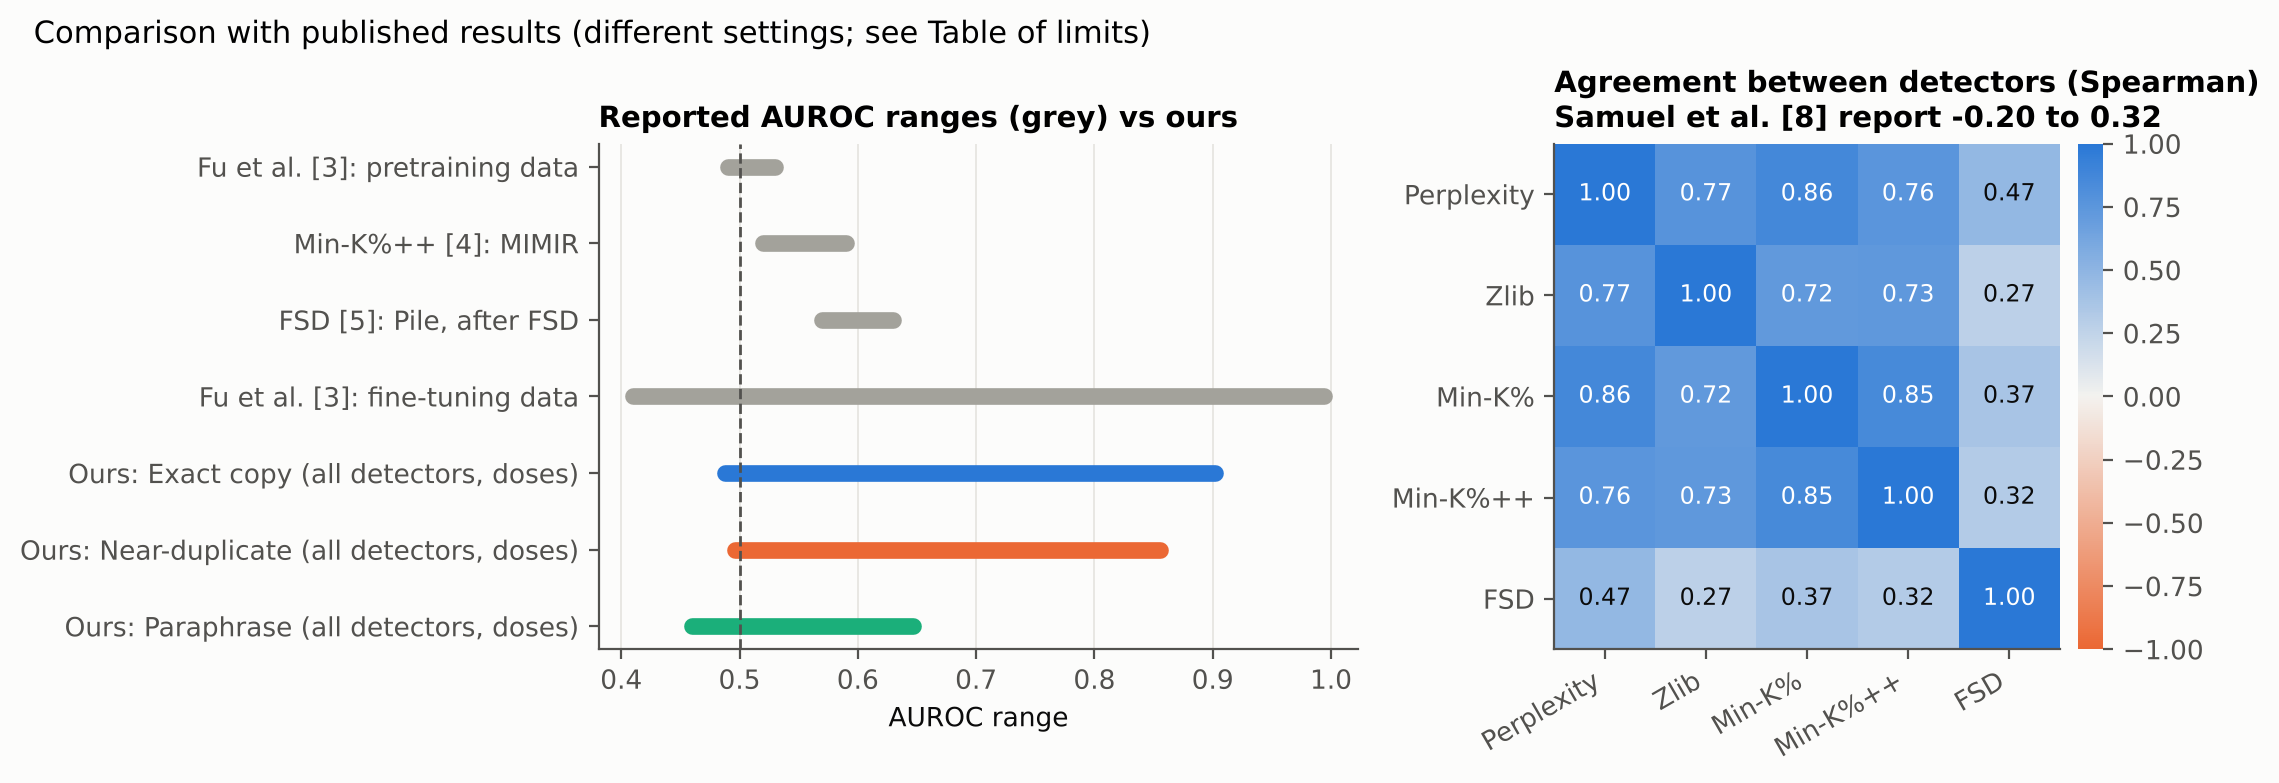
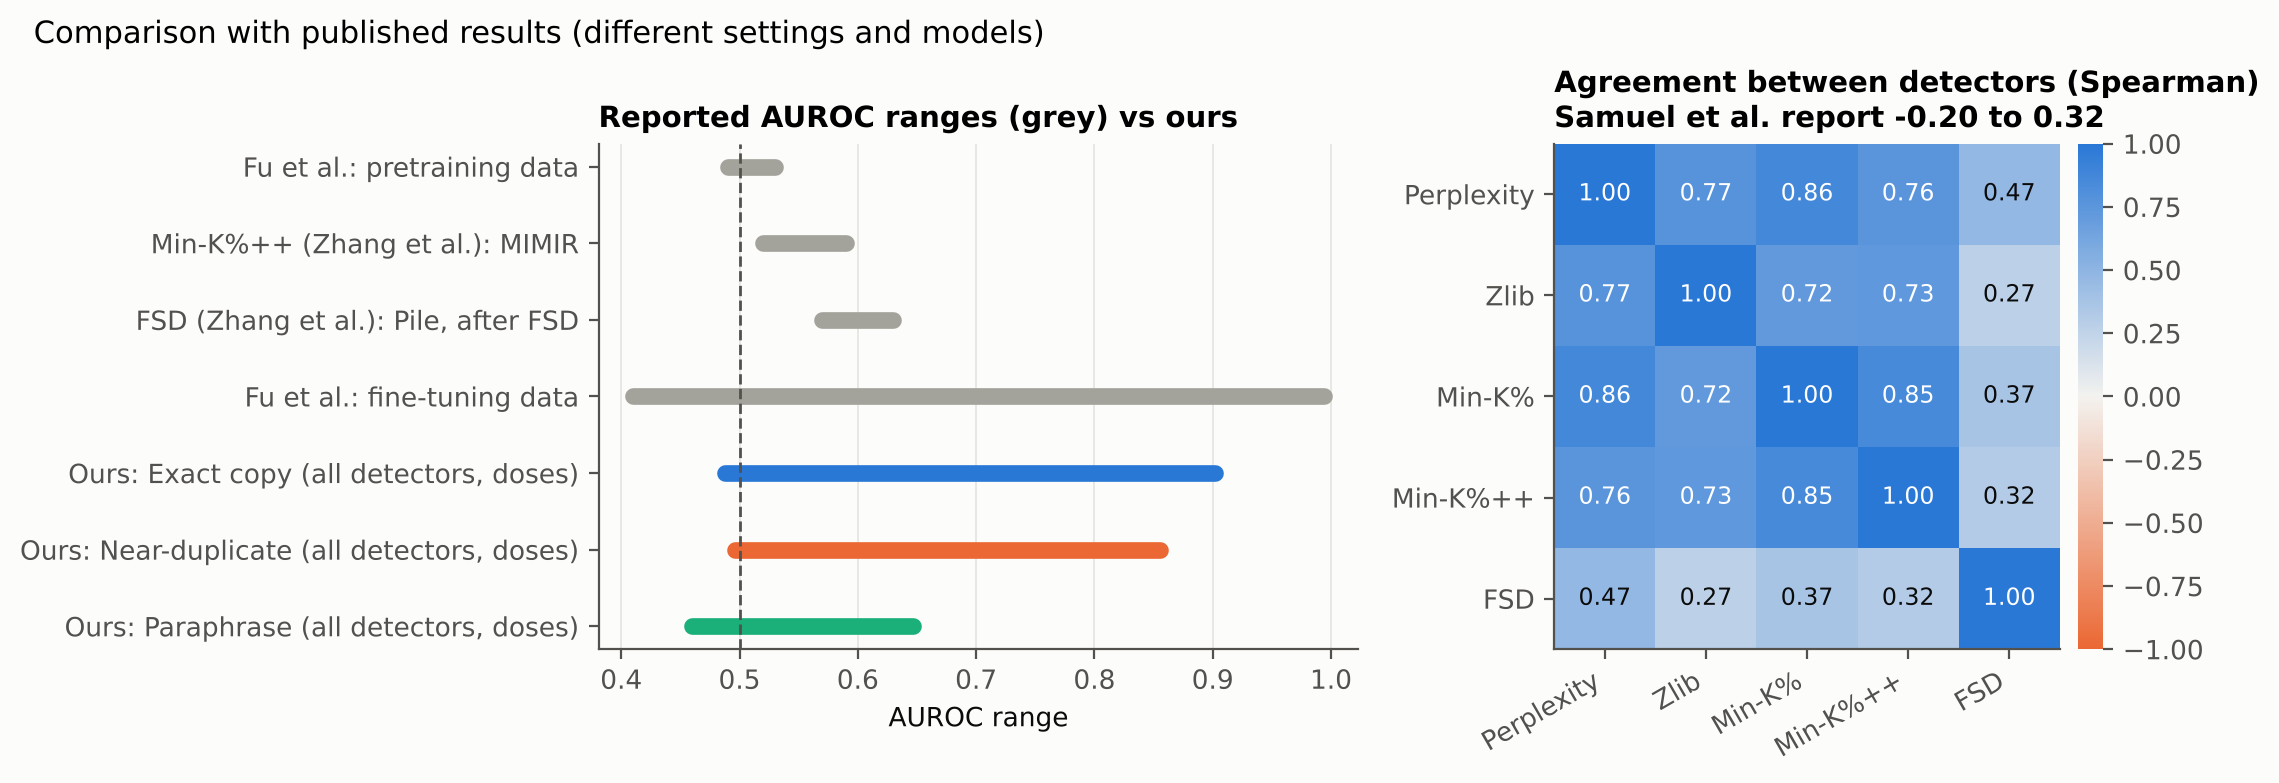
Literature figure without stale citation numbers; record analysis environment

diff --git a/dcl/figures.py b/dcl/figures.py
@@ -263,8 +263,8 @@ def fig_errors(counts, by_overlap, out):
 def fig_literature(det, inter, out):
     fig, axes = plt.subplots(1, 2, figsize=(11, 3.8), gridspec_kw={"width_ratios": [1.25, 1]})
     ax = axes[0]
-    ref = [("Fu et al. [3]: pretraining data", 0.49, 0.53), ("Min-K%++ [4]: MIMIR", 0.52, 0.59),
-           ("FSD [5]: Pile, after FSD", 0.57, 0.63), ("Fu et al. [3]: fine-tuning data", 0.41, 0.994)]
+    ref = [("Fu et al.: pretraining data", 0.49, 0.53), ("Min-K%++ (Zhang et al.): MIMIR", 0.52, 0.59),
+           ("FSD (Zhang et al.): Pile, after FSD", 0.57, 0.63), ("Fu et al.: fine-tuning data", 0.41, 0.994)]
     for i, (lab, lo, hi) in enumerate(ref):
         ax.plot([lo, hi], [i, i], color="#a3a29b", lw=6, solid_capstyle="round")
     ours = det.groupby("overlap")["auroc"].agg(["min", "max"]).reindex(C.OVERLAPS)
@@ -285,10 +285,10 @@ def fig_literature(det, inter, out):
     ax.grid(False)
     for (i, j), v in np.ndenumerate(M):
         ax.text(j, i, f"{v:.2f}", ha="center", va="center", fontsize=8.5, color="white" if abs(v) > 0.7 else INK)
-    ax.set_title("Agreement between detectors (Spearman)\nSamuel et al. [8] report -0.20 to 0.32", loc="left")
+    ax.set_title("Agreement between detectors (Spearman)\nSamuel et al. report -0.20 to 0.32", loc="left")
     cb = plt.colorbar(im, ax=ax, fraction=0.046, pad=0.03)
     cb.outline.set_visible(False)
-    fig.suptitle("Comparison with published results (different settings; see Table of limits)", x=0.01, ha="left", fontsize=11)
+    fig.suptitle("Comparison with published results (different settings and models)", x=0.01, ha="left", fontsize=11)
     return _save(fig, out, "fig10_literature_comparison")
 
 
